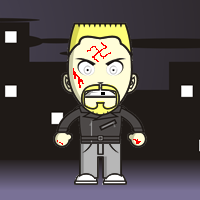
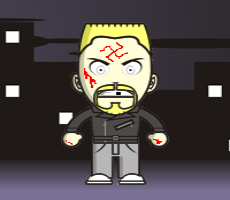
added Youssed & new Vs img

diff --git a/js/main.js b/js/main.js
@@ -21,18 +21,19 @@ function Fighter(name, health, damagePerAttack, special, avatar) {
 fightersFunctionSet = function() {
     ryan = new Fighter('Ryan', 110, 21, 'Triple Punch', 'img/Ryan.png');
     aaron = new Fighter('Aaron', 120, 17, 'Black Mamba', 'img/Aaron.png');
-    totor = new Fighter('Totor', 90, 14, 'Equarissage', 'img/Totor.png');
-    crispy = new Fighter('Crispy', 100, 16, 'Axe Throw', 'img/Crispy.png');
+    totor = new Fighter('Totor', 90, 15, 'Equarissage', 'img/Totor.png');
+    crispy = new Fighter('Crispy', 100, 17, 'Axe Throw', 'img/Crispy.png');
     shinuwa = new Fighter('Shinuwa', 95, 15, 'Shinuwa Attack', 'img/Shinuwa.png');
     jayce = new Fighter('Jayce', 80, 16, ' Fringuée comme un sac', 'img/Jayce.png');
-    isa = new Fighter('Isa', 85, 14, ' Mommy', 'img/Isa.png');
-    binouse = new Fighter('Binouse', 65, 24, ' Beer Throw', 'img/Binouse.png');
+    isa = new Fighter('Isa', 85, 15, ' Mommy', 'img/Isa.png');
+    binouse = new Fighter('Binouse', 60, 25, ' Beer Throw', 'img/Binouse.png');
     jean = new Fighter('Jean', 95, 16, ' Bâtard du Nord', 'img/Jean.png');
     thomas = new Fighter('Thomas', 105, 18, ' Blietzkrig', 'img/Thomas.png');
+    youssef = new Fighter('Youssef', 100, 15, ' Blietzkrig', 'img/Youssef.png');
     // chuck = new Fighter('Chuck Norris', 9999, 99, 'Round House Kick', 'img/Ryan.png');
     // xavier = new Fighter('Xavier', 100, 14, 'Troll Attack', 'img/Ryan.png');
     // Store fighters into array
-    fightersArray = [ryan, aaron, totor, crispy, shinuwa, jayce, isa, binouse, jean, thomas];
+    fightersArray = [ryan, aaron, totor, crispy, shinuwa, jayce, isa, binouse, jean, thomas, youssef];
 };
 
 // round global var
@@ -51,6 +52,7 @@ hitEffects = [ hit0, hit1, hit2];
 
 // Images
 var logo = $('<img class="logo-overlay" src="img/readytorumble-small.jpg" alt="logo Rdy to Rumble!" />');
+var vs = $('<img class="" src="img/vs.png" alt="VS" />');
 
 /***************************** /DATA FUNCTIONS ********************************/
 
@@ -76,7 +78,7 @@ domElementsFunctionSet = function() {
 
     /* Misc */
     $outputDiv = $('<div id="outputDiv"></div>'); // Output battle info Div
-    $versusDiv = $('<div class="middle"><h3>VS</h3><img src="img/testgifrumble.gif" alt="Fight" onclick="fight();" class="fight"/>'); // Middle Div
+    $versusDiv = $('<div class="middle"><img class="vs" src="img/vs.png" alt="VS" /><img src="img/testgifrumble.gif" alt="Fight" onclick="fight();" class="fight"/>'); // Middle Div
 };
 
 

diff --git a/css/style.css b/css/style.css
@@ -104,6 +104,13 @@ button, select {
   font-size: 1.5em;
 }
 
+.vs {
+  max-width: 110px;
+  max-height: 60px;
+  margin-left: 1.65em;
+  margin-bottom: 1.5em;
+}
+
 /* Buttons + player infos*/
 
 #player1-hp, #player2-hp {
